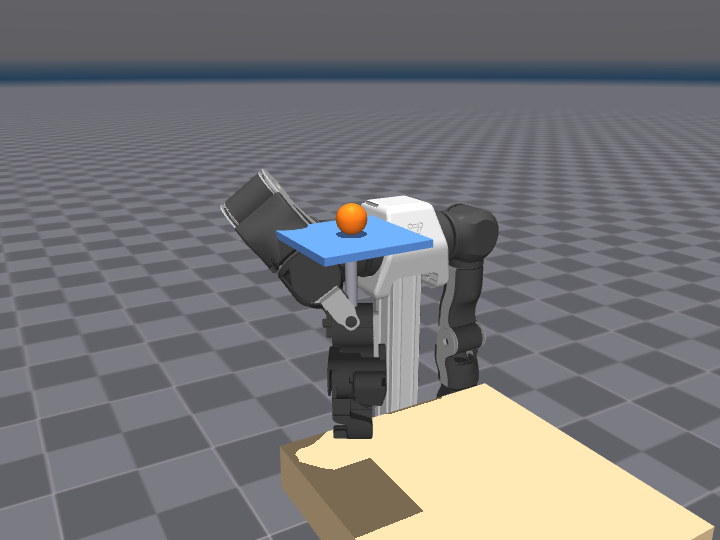
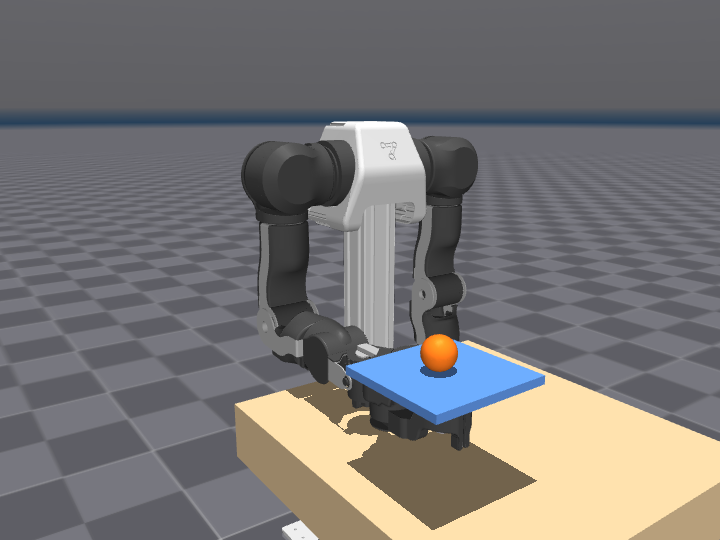
Balance media: hold the plate stem in the gripper, not above the wrist
The showcase GIFs showed the plate floating 12 cm over the wrist with a
long visual riser bridging the gap. The media path now poses the arm in
the hanging home configuration (gripper clear of the other links), seats
the plate with its stem at the fingertip grasp point, fingers closed, and
the stem visual is shortened to match. Scene physics untouched: the stem
is a visual-only geom and setup_hold keeps its exact behaviour for the
bench, tests and RL envs (balance tests re-run green).

diff --git a/scripts/gen_showcase_media.py b/scripts/gen_showcase_media.py
@@ -58,8 +58,8 @@ CAMS = {
     # Balance scenes: plate is 12 cm above the gripper (via a visible riser
     # rod) at world z ~0.795. A moderate 3/4 view shows the arm below, riser
     # extending up, plate + ball on top.
-    "balance_circle":  ([0.24, -0.22, 0.75], 0.85, 150, -18),
-    "balance_perturb": ([0.24, -0.22, 0.75], 0.85, 150, -18),
+    "balance_circle":  ([0.26, -0.20, 0.62], 0.72, 145, -14),
+    "balance_perturb": ([0.26, -0.20, 0.62], 0.72, 145, -14),
 }
 
 
@@ -195,7 +195,39 @@ def _run_balance(kind):
     from openarm_control.demos.demo_balance import _target_at, _apply_perturbation
     m, d = _keyframe_load(BALANCE_SCENE)
     bal = LQRBalancer(m, d)
+    # Pose the right arm in the hanging "home" configuration (elbow 90 deg,
+    # gripper forward-down, clear of the other links) BEFORE capturing the
+    # hold: in the scene's ready pose the wrist links occupy the space right
+    # where an in-gripper plate would sit, and the render looks skewered.
+    home_q = np.array([0.0, 0.0, 0.0, 1.570796, 0.0, 0.0, 0.0])
+    d.qpos[bal.right.king.qpos_indices] = home_q
+    d.qvel[bal.right.king.dof_indices] = 0.0
+    for i, act in enumerate(bal.right.arm_acts):
+        d.ctrl[act] = home_q[i]
+    mujoco.mj_forward(m, d)
     bal.setup_hold()
+    # Re-seat the plate with its stem IN the gripper (fingertip grasp point,
+    # fingers closed) instead of floating above the wrist -- same physics,
+    # honest grip visual. setup_hold itself is untouched so the bench, tests
+    # and RL envs keep their exact validated behaviour.
+    gp, _ = bal.right.king.forward_kinematics()
+    plate_pos = gp + np.array([0.0, 0.0, 0.045])   # stem spans the finger cage
+    d.qpos[bal.plate_qadr:bal.plate_qadr + 3] = plate_pos
+    d.qpos[bal.plate_qadr + 3:bal.plate_qadr + 7] = [1, 0, 0, 0]
+    d.qvel[bal.plate_dadr:bal.plate_dadr + 6] = 0.0
+    mujoco.mj_forward(m, d)
+    p1 = d.xpos[bal.right.ee_body].copy(); q1 = d.xquat[bal.right.ee_body].copy()
+    p2 = d.xpos[bal.plate_bid].copy();     q2 = d.xquat[bal.plate_bid].copy()
+    nq1 = np.zeros(4); mujoco.mju_negQuat(nq1, q1)
+    relpos = np.zeros(3); mujoco.mju_rotVecQuat(relpos, p2 - p1, nq1)
+    relquat = np.zeros(4); mujoco.mju_mulQuat(relquat, nq1, q2)
+    bal._gripper_to_plate_relpos = relpos.copy()
+    bal._gripper_to_plate_relquat = relquat.copy()
+    bal.model.eq_data[bal.weld_eid, 3:6] = relpos
+    bal.model.eq_data[bal.weld_eid, 6:10] = relquat
+    bal._plate_centre_fixed = d.xpos[bal.plate_bid].copy()
+    if bal.right.grip_act != -1:
+        d.ctrl[bal.right.grip_act] = 0.0           # fingers closed on the stem
     bal.reset(ball_offset_xy=(0.0, 0.0), settle_steps=400)
     cam = free_cam(*CAMS[f"balance_{kind}"])
     cap = FrameCapture(m, d, cam, stride=6)